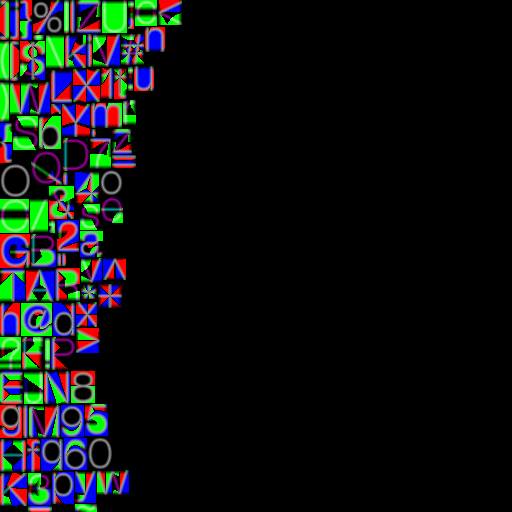
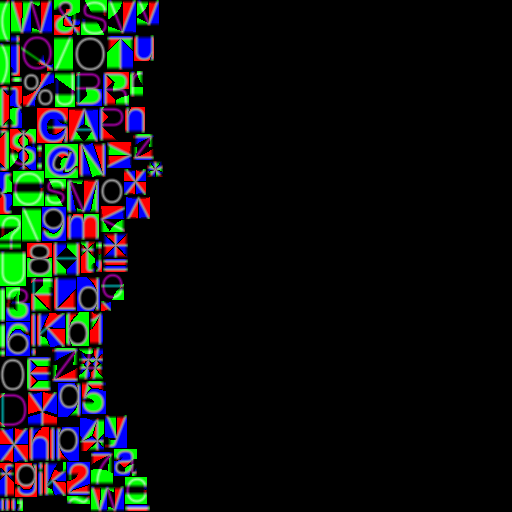
--- Auto-Git Commit ---

Changed region(s): [[0.0, 0.0, 0.375, 1.0]]

diff --git a/src/index.js b/src/index.js
@@ -41,7 +41,7 @@ window.addEventListener("resize", () => {
 // console.log(particleSys)
 let words = []
 let pivot
-function init(geometry, texture, geometry2) {
+function init(font, texture) {
   // Create material with msdf shader from three-bmfont-text
 
   var ptexture = new THREE.TextureLoader().load(
@@ -92,18 +92,12 @@ function init(geometry, texture, geometry2) {
         negate: false,
       })
     )
-  // const material2 =
-  //   new THREE.RawShaderMaterial(
-  //     MSDFShader({
-  //       map: texture,
-  //       color: 0x000000, // We'll remove it later when defining the fragment shader
-  //       side: THREE.DoubleSide,
-  //       opacity: 1,
-  //       transparent: true,
-  //       negate: false,
-  //     })
-  //   )
-
+      let geom1 = createGeometry({
+        font,
+      })
+      let geom2 = createGeometry({
+        font,
+      })
     for (let i = 0; i <= particleCount; i++) {
       let a = (i / particleCount) * Math.PI * 2
       let cosX = Math.cos(a)
@@ -115,9 +109,11 @@ function init(geometry, texture, geometry2) {
       let newY = cy + (radius + posZ) * sinY
       let mesh
       if (i % 2 == 0) {
-        mesh = new THREE.Mesh(geometry, material)
+        geom1.update("COVID19")
+        mesh = new THREE.Mesh(geom1, material)
       } else {
-        mesh = new THREE.Mesh(geometry2, material)
+        geom2.update("PANDEMIC")
+        mesh = new THREE.Mesh(geom2, material)
       }
       mesh.name = "Words" + i.toString()
       mesh.geometry.computeBoundingBox()
@@ -297,22 +293,13 @@ loadFont(nfont, (err, font) => {
   // console.log(err)
   // Create a geometry of packed bitmap glyphs
   // let geometry = []
-  loadFont(nfont2, (err2, font2) => {
+  // loadFont(nfont2, (err2, font2) => {
     const loader = new THREE.TextureLoader()
     loader.load(atlas, (texture) => {
         // Start and animate renderer
         init(
-          createGeometry({
-            font: font,
-            text: "PANDEMIC",
-          }),
-          texture,
-          createGeometry({
-            font,
-            text: "COVID19",
-          })
+          font,
+          texture
         )
-      // render()
-    })
   })
 })
